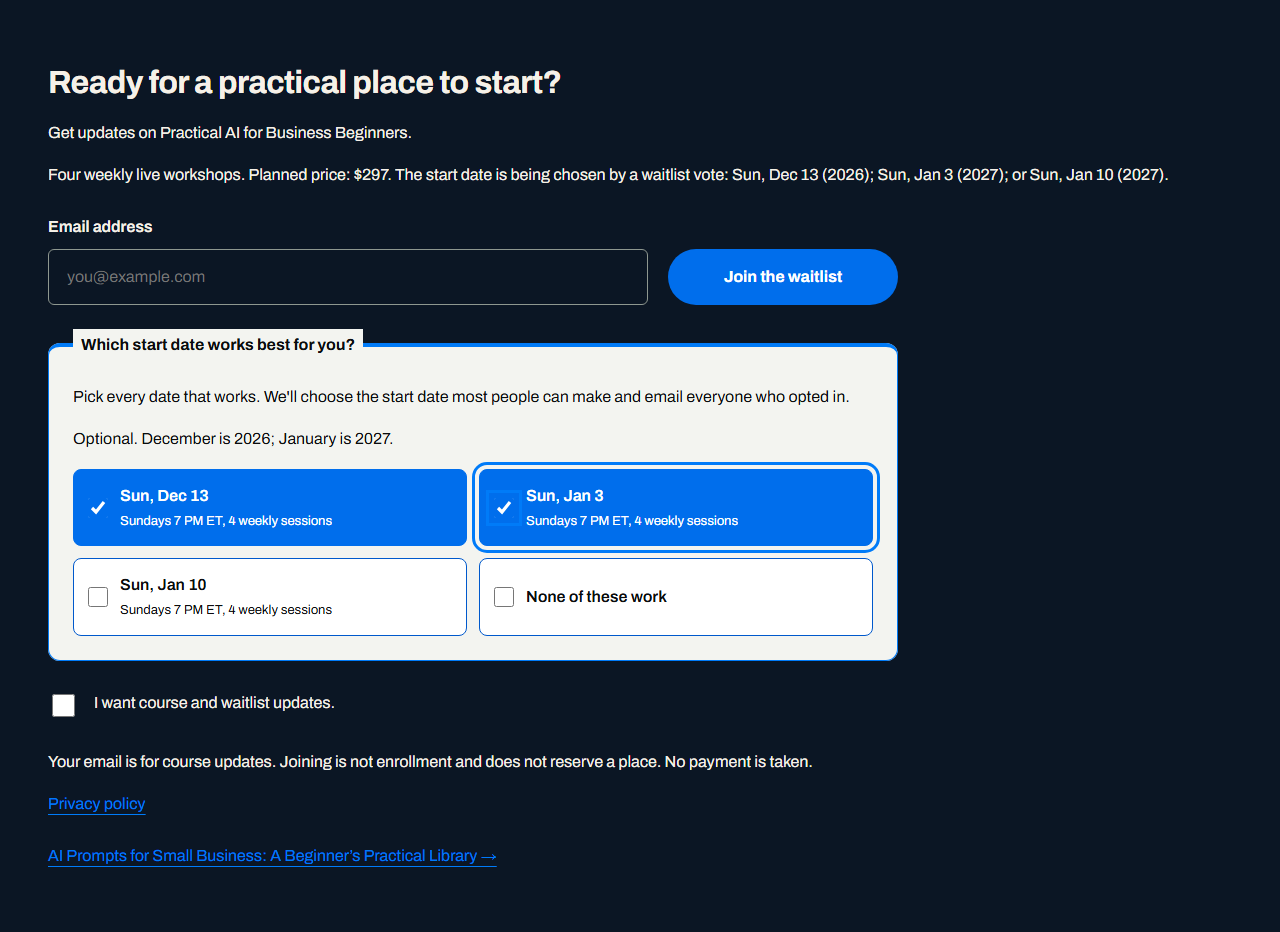
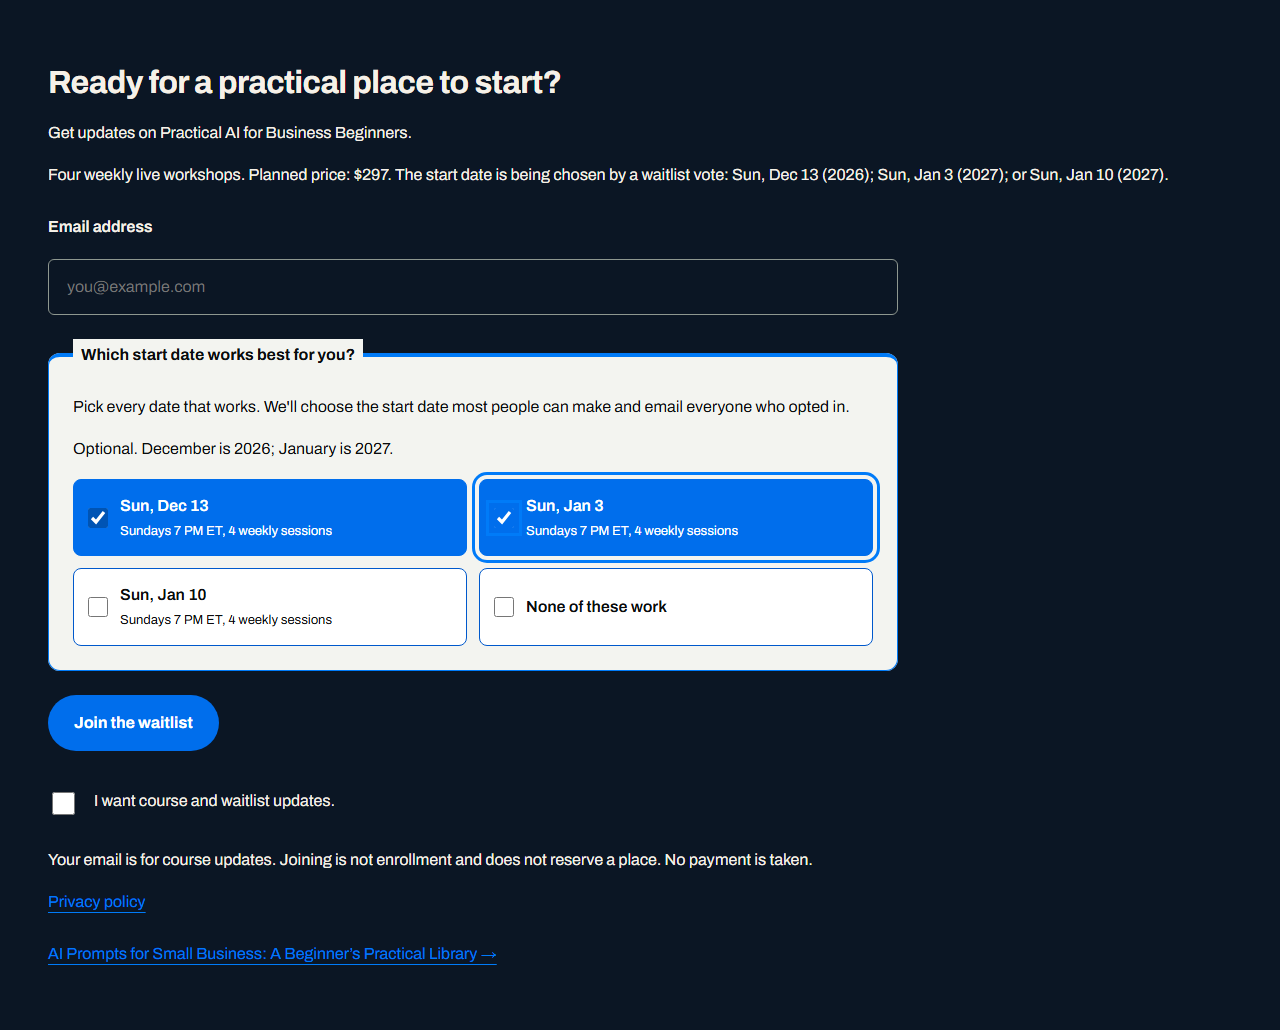
Move waitlist date options above the Join button

Changed region(s): [[0.0312, 0.0622, 0.9062, 0.9335]]

diff --git a/course/index.html b/course/index.html
@@ -194,10 +194,7 @@
 <p>Four weekly live workshops. Planned price: $297. The start date is being chosen by a waitlist vote: Sun, Dec 13 (2026); Sun, Jan 3 (2027); or Sun, Jan 10 (2027).</p>
 <form data-kind="waitlist">
 <label for="waitlist-email">Email address</label>
-<div class="form-row">
 <input id="waitlist-email" name="email" type="email" placeholder="you@example.com" autocomplete="off" required>
-<button>Join the waitlist</button>
-</div>
 <fieldset class="date-vote" aria-describedby="date-vote-help date-vote-years">
 <legend>Which start date works best for you?</legend>
 <p id="date-vote-help">Pick every date that works. We'll choose the start date most people can make and email everyone who opted in.</p>
@@ -209,6 +206,7 @@
 <label class="date-chip"><input type="checkbox" name="startDates" value="none"><span>None of these work</span></label>
 </div>
 </fieldset>
+<button>Join the waitlist</button>
 <label class="consent">
 <input type="checkbox" name="courseUpdates" required>
 <span>I want course and waitlist updates.</span>

diff --git a/src/course/course.css b/src/course/course.css
@@ -735,6 +735,12 @@ input[type=checkbox] {
 .date-vote legend { background:#F3F4F0; color:#0B0D0E; padding:4px 8px; font-weight:700; max-width:100%; }
 .date-vote p { font-size:16px; }
 .date-chips { display:grid; grid-template-columns:repeat(2,minmax(0,1fr)); gap:12px; }
+.signup form > input[type=email] { width:100%; margin:10px 0 0; }
+.signup form > button { margin:0 0 8px; }
+@media(max-width:650px) {
+  .signup form > button { width:100%; }
+}
+
 .date-chip {
   display:flex; align-items:center; gap:12px; min-height:64px; padding:14px;
   margin:0; border:1px solid #0059CC; border-radius:8px; background:#FFFFFF; cursor:pointer;

diff --git a/evidence/course-date-vote/README.md b/evidence/course-date-vote/README.md
@@ -17,8 +17,8 @@ Status: locally verified on `course/date-vote-included`, based on `135d7815228ee
 
 - `hero-1440.png`: desktop hero, disclosure and linked date reminders.
 - `hero-390.png`: mobile hero, disclosure and linked date reminders.
-- `waitlist-1440-selected.png`: desktop waitlist, multiple selections and keyboard focus.
-- `waitlist-390-selected.png`: mobile waitlist, multiple selections and keyboard focus.
+- `waitlist-1440-selected.png`: desktop waitlist, date chips above the Join button, multiple selections and keyboard focus.
+- `waitlist-390-selected.png`: mobile waitlist, date chips above the Join button, multiple selections and keyboard focus.
 
 `verify.mjs` reproduces browser checks against the built preview using the existing cached Playwright install and known headless Chromium. It blocks external traffic and course API calls. No dependency changes.
 
